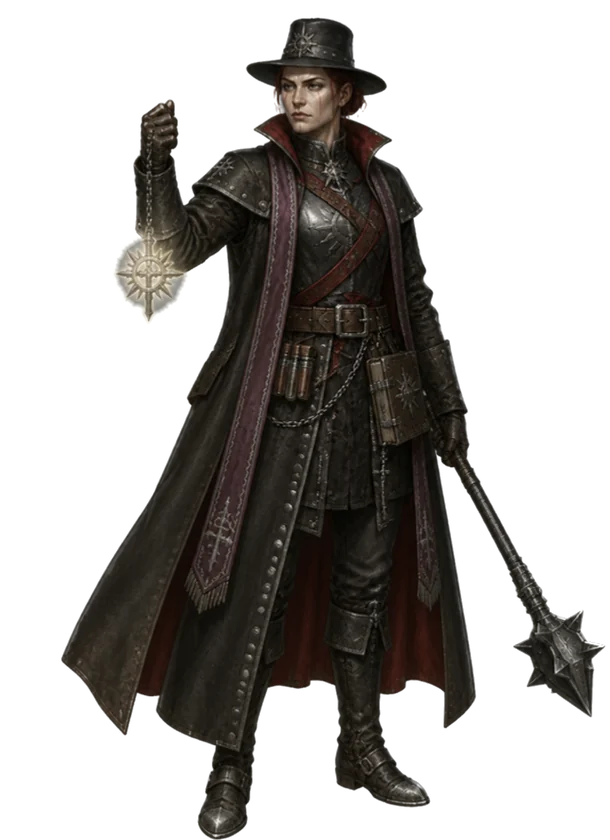
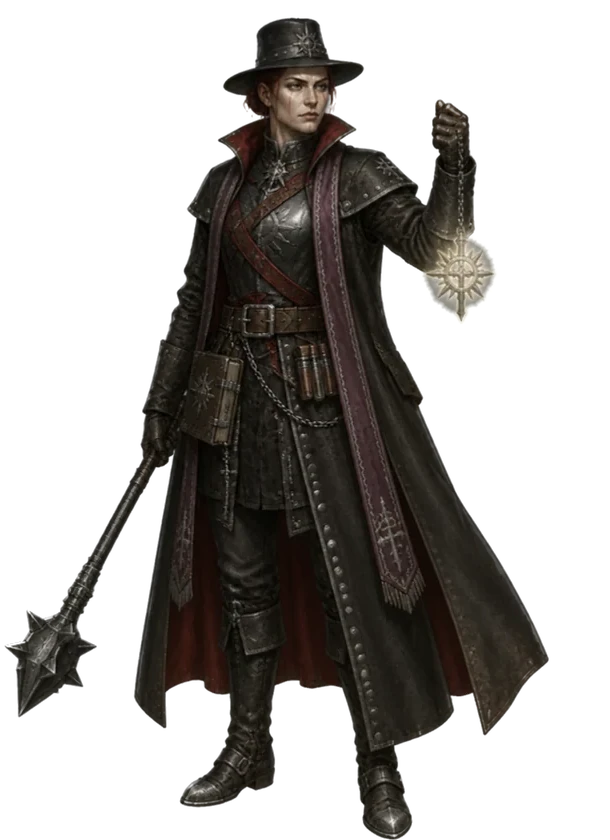
Adiciona animação para a inquisitora

diff --git a/src/styles/battle.css b/src/styles/battle.css
@@ -477,6 +477,149 @@
     scale: -1 1;
 }
 
+/*
+ * Figura com poses de ação (CharacterArt com <id>-pose-*): a caixa tem a
+ * proporção da figura parada; as poses ficam por cima, todas do mesmo
+ * tamanho, deslocadas pelas medidas --pose-* de cada personagem, e aparecem
+ * uma de cada vez. As animações da figura inteira (respirar, avançar,
+ * tremer) continuam na caixa, por fora das poses.
+ */
+.bt-posed {
+    display: block;
+}
+
+.bt-posed__still,
+.bt-posed__pose {
+    position: absolute;
+    max-width: none;
+    pointer-events: none;
+    user-select: none;
+}
+
+.bt-posed__still {
+    inset: 0;
+    width: 100%;
+    height: 100%;
+}
+
+.bt-posed__pose {
+    left: var(--pose-left);
+    top: var(--pose-top);
+    width: var(--pose-width);
+    height: var(--pose-height);
+    opacity: 0;
+}
+
+/* Inquisidora: figura de 610 x 840; poses de 687 x 944, a partir de (-63, -104). */
+.bt-posed--inquisidora {
+    aspect-ratio: 610 / 840;
+    --pose-left: -10.33%;
+    --pose-top: -12.38%;
+    --pose-width: 112.62%;
+    --pose-height: 112.38%;
+}
+
+/*
+ * Golpe corpo a corpo (bt-lunge, 1,1 s): no recuo ela ergue a arma (windup)
+ * e, no avanço, desce o golpe (strike), que acerta aos 63%, quando o dano
+ * aparece. Depois volta à figura parada. As trocas têm um cruzamento curto.
+ */
+.bt-unit--acting .bt-posed:has(.bt-posed__pose--strike) .bt-posed__still {
+    animation: bt-pose-melee-still 1.1s linear;
+}
+
+.bt-unit--acting .bt-posed__pose--windup {
+    animation: bt-pose-windup 1.1s linear;
+}
+
+.bt-unit--acting .bt-posed__pose--strike {
+    animation: bt-pose-strike 1.1s linear;
+}
+
+/* Magia, projétil e suporte (bt-cast, 0,75 s): a pose de conjurar o tempo todo. */
+.bt-unit--casting .bt-posed:has(.bt-posed__pose--cast) .bt-posed__still {
+    animation: bt-pose-cast-still 0.75s linear;
+}
+
+.bt-unit--casting .bt-posed__pose--cast {
+    animation: bt-pose-cast 0.75s linear;
+}
+
+@keyframes bt-pose-melee-still {
+    0%,
+    6% {
+        opacity: 1;
+    }
+    9%,
+    86% {
+        opacity: 0;
+    }
+    90%,
+    100% {
+        opacity: 1;
+    }
+}
+
+@keyframes bt-pose-windup {
+    0%,
+    6% {
+        opacity: 0;
+    }
+    9%,
+    50% {
+        opacity: 1;
+    }
+    53%,
+    100% {
+        opacity: 0;
+    }
+}
+
+@keyframes bt-pose-strike {
+    0%,
+    50% {
+        opacity: 0;
+    }
+    53%,
+    86% {
+        opacity: 1;
+    }
+    90%,
+    100% {
+        opacity: 0;
+    }
+}
+
+@keyframes bt-pose-cast-still {
+    0%,
+    8% {
+        opacity: 1;
+    }
+    13%,
+    84% {
+        opacity: 0;
+    }
+    90%,
+    100% {
+        opacity: 1;
+    }
+}
+
+@keyframes bt-pose-cast {
+    0%,
+    8% {
+        opacity: 0;
+    }
+    13%,
+    84% {
+        opacity: 1;
+    }
+    90%,
+    100% {
+        opacity: 0;
+    }
+}
+
 /* Sombra no chão, sob os pés, com a cor do time */
 .bt-unit__shadow {
     position: absolute;

diff --git a/src/components/battle/artFiles.ts b/src/components/battle/artFiles.ts
@@ -11,6 +11,10 @@
  *
  * Basta salvar os arquivos na pasta: o Vite encontra sozinho, sem mexer em
  * código. Personagem sem arquivo aparece com o desenho antigo, de reserva.
+ *
+ * Poses de ação: além do <id>.webp, o personagem pode ter os desenhos
+ * <id>-pose-<momento>.webp (windup, strike, cast), trocados durante a
+ * animação em battle.css. Ver getPoseFrames.
  */
 export type ArtKind = 'figure' | 'face' | 'card';
 
@@ -36,6 +40,30 @@ const RENAMED: Record<string, string> = {
     geada: 'criomante',
     espinho: 'guardiao',
 };
+
+export type PoseName = 'windup' | 'strike' | 'cast';
+
+const POSES: PoseName[] = ['windup', 'strike', 'cast'];
+
+/**
+ * Os desenhos de cada momento da ação (preparar e acertar o golpe, conjurar),
+ * ou null se o personagem não tem nenhum. A forma de quem se transforma não
+ * tem poses: nela vale a figura parada.
+ */
+export function getPoseFrames(characterId: string, form?: string): { pose: PoseName; src: string }[] | null {
+    if (form !== undefined) {
+        return null;
+    }
+
+    const id = RENAMED[characterId] ?? characterId;
+    const frames = POSES.flatMap((pose) => {
+        const src = ART.get(`${id}-pose-${pose}`);
+
+        return src ? [{ pose, src }] : [];
+    });
+
+    return frames.length > 0 ? frames : null;
+}
 
 /** `form` é a forma em que a unidade está, se estiver transformada. Sem ilustração da forma, vale a do personagem. */
 export function getCharacterArt(characterId: string, kind: ArtKind, form?: string): string | undefined {

diff --git a/src/components/battle/CharacterArt.tsx b/src/components/battle/CharacterArt.tsx
@@ -1,5 +1,5 @@
 import { CharacterSprite } from './CharacterSprite';
-import { getCharacterArt } from './artFiles';
+import { getCharacterArt, getPoseFrames } from './artFiles';
 import type { ArtKind } from './artFiles';
 
 interface CharacterArtProps {
@@ -16,6 +16,20 @@ interface CharacterArtProps {
  */
 export function CharacterArt({ characterId, kind, form, className = '' }: CharacterArtProps) {
     const src = getCharacterArt(characterId, kind, form);
+    const poses = kind === 'figure' && src ? getPoseFrames(characterId, form) : null;
+
+    // Figura com poses de ação: a figura parada e, por cima, uma pose de cada
+    // momento, que battle.css mostra uma de cada vez durante o golpe ou a magia.
+    if (src && poses) {
+        return (
+            <span className={`${className} bt-art--figure bt-posed bt-posed--${characterId}`} aria-hidden='true'>
+                <img src={src} alt='' draggable={false} className='bt-posed__still' />
+                {poses.map(({ pose, src: frame }) => (
+                    <img key={pose} src={frame} alt='' draggable={false} className={`bt-posed__pose bt-posed__pose--${pose}`} />
+                ))}
+            </span>
+        );
+    }
 
     if (!src) {
         return <CharacterSprite characterId={characterId} className={`${className} bt-art--drawn`} />;

diff --git a/src/assets/characters/README.md b/src/assets/characters/README.md
@@ -30,5 +30,24 @@ Cuidados para a figura combinar com as outras:
 - o **corpo no centro da largura** (se a arma ou a capa sobram para um lado, deixe a mesma sobra vazia do outro);
 - a mesma escala das atuais: uma pessoa em pé ocupa quase toda a altura.
 
+## Poses de ação
+
+Além da figura parada, um personagem pode ter desenhos de cada momento da
+ação, trocados durante a animação (hoje, a Inquisidora):
+
+| Arquivo | Quando aparece |
+| --- | --- |
+| `<id>-pose-windup.webp` | Golpe corpo a corpo: preparando o golpe (recuo). |
+| `<id>-pose-strike.webp` | Golpe corpo a corpo: o golpe acertando (avanço). |
+| `<id>-pose-cast.webp` | Habilidade à distância, em área ou de suporte. |
+
+O golpe usa `windup` e `strike` juntas; a magia usa `cast`. Pode haver só as
+do golpe ou só a da magia: o que faltar fica com a figura parada. As poses
+têm **todas o mesmo tamanho**, um pouco maior que a figura (para caber a arma
+erguida ou o braço estendido), com a pessoa na mesma escala e os pés no mesmo
+lugar da figura parada, olhando para o mesmo lado. Onde a pose fica em
+relação à figura (as medidas `--pose-*`) e o tempo de cada troca ficam em
+`src/styles/battle.css`, na seção `.bt-posed--<id>`.
+
 Quem não tem arquivo aparece com o desenho de reserva de
 `src/components/battle/CharacterSprite.tsx`.
